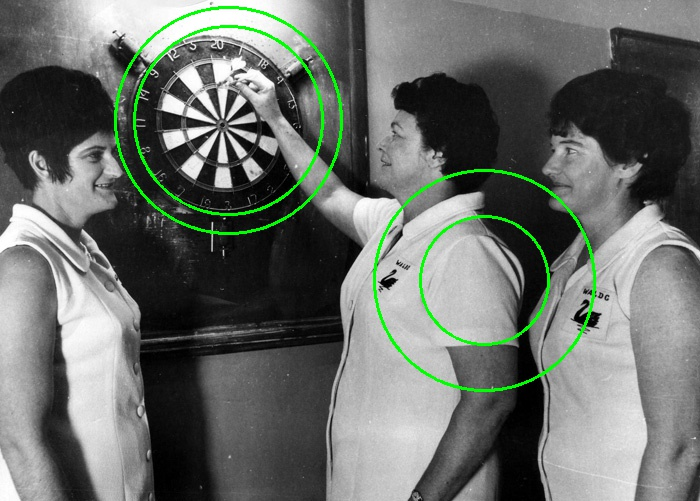
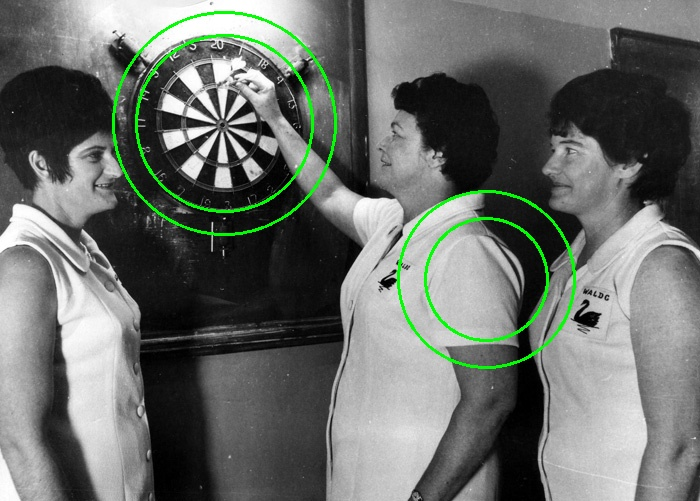
Promo Code: Big Til

Changed region(s): [[0.51, 0.3293, 0.87, 0.8084], [0.15, 0.0, 0.51, 0.479]]

diff --git a/dartboard.cpp b/dartboard.cpp
@@ -308,14 +308,20 @@ vector<Rect> refineDartboards(vector<Rect> dartboards, vector<myCircle> circleCe
 {
 	vector<Rect> acceptedDartboards;
 	vector<bool> circleCheck;
+	vector<bool> interCheck;
+	vector<bool> dartCheck;
 	for (int i = 0;i < circleCentres.size();i++)
 	{
 		circleCheck.push_back(false);
 	}
-	bool dartEval = false;
+	for(int i = 0;i < dartboards.size();i++){
+		dartCheck.push_back(false);
+	}
+	for(int i = 0;i < intersects.size();i++){
+		interCheck.push_back(false);
+	}
 	for (int i = 0; i < dartboards.size(); i++)
 	{
-		dartEval = false;
 		for(int j = 0; j < circleCentres.size(); j++)
 		{
 			Rect centralRegion = Rect((dartboards[i].x + dartboards[i].width/3), (dartboards[i].y + dartboards[i].height/3), (dartboards[i].width/3), (dartboards[i].height/3));
@@ -331,42 +337,28 @@ vector<Rect> refineDartboards(vector<Rect> dartboards, vector<myCircle> circleCe
 					int intY = intersects[k].y;
 					if (intX > x - 10 && intX < x + 10 && intY > y - 10 && intY < y + 10)
 					{
-						if(!circleCheck[j] && dartEval)
+						if(!circleCheck[j] && !interCheck[k])
 						{
+							printf("circleint\n");
 							if(radius1 > radius2)
 							{
-								int width = radius1;
-								Rect newRect(x-width,y-width,2*radius1,2*radius1);
+								int width = radius1*0.8;
+								printf("%d rad 1  %d\n",radius1,width);
+								Rect newRect(x-width,y-width,2*width,2*width);
 								acceptedDartboards.push_back(newRect);
 							}
 							else
 							{
-								int width = radius2;
-								Rect newRect(x-width,y-width,2*radius2,2*radius2);
+								int width = radius2*0.8;
+								printf("%d rad 2  %d\n",radius2,width);
+								Rect newRect(x-width,y-width,2*width,2*width);
 								acceptedDartboards.push_back(newRect);
 							}
 							circleCheck[j] = true;
-							dartEval = true;
+							interCheck[k] = true;
+							//dartCheck[i] = true;
 							}
-						}
-					if(intX > centralRegion.x && intX < (centralRegion.x+centralRegion.width) && intY > centralRegion.y && intY < (centralRegion.y + centralRegion.height))
-					{
-						if(dartboards[i].width < radius1*2.6 || dartboards[i].width < radius2*2.6)
-						{
-							if(dartboards[i].width > radius1*0.8 || dartboards[i].width > radius2*0.8)
-							{
-								if(!dartEval)
-								{
-									acceptedDartboards.push_back(dartboards[i]);
-									dartEval = true;
-								}
-							}
-						}
-					}
-					if(dartEval)
-					{
-						break;
-					}
+					}	
 				}
 			}
 			else
@@ -375,7 +367,7 @@ vector<Rect> refineDartboards(vector<Rect> dartboards, vector<myCircle> circleCe
 				{
 					if(dartboards[i].width > radius1*0.8 || dartboards[i].width > radius2*0.8)
 					{
-						if(!circleCheck[j] && !dartEval){
+						if(!circleCheck[j] && !dartCheck[i]){
 							printf("radius 1 = %i radius 2 = %i\n", radius1, radius2);
 							if((radius1 > radius2))
 							{
@@ -384,7 +376,7 @@ vector<Rect> refineDartboards(vector<Rect> dartboards, vector<myCircle> circleCe
 									Rect newRect(x-radius2, y-radius2, radius2*2, radius2*2);
 									acceptedDartboards.push_back(newRect);
 									printf("circlevi\n");
-									dartEval = true;
+									dartCheck[i] = true;
 									circleCheck[j] = true;
 								}
 								else
@@ -392,7 +384,7 @@ vector<Rect> refineDartboards(vector<Rect> dartboards, vector<myCircle> circleCe
 									Rect newRect(x-radius1, y-radius1, radius1*2, radius1*2);
 									acceptedDartboards.push_back(newRect);
 									printf("circlevi\n");
-									dartEval = true;
+									dartCheck[i] = true;
 									circleCheck[j] = true;
 								}
 							}
@@ -403,7 +395,7 @@ vector<Rect> refineDartboards(vector<Rect> dartboards, vector<myCircle> circleCe
 									Rect newRect(x-radius1, y-radius1, radius1*2, radius1*2);
 									acceptedDartboards.push_back(newRect);
 									printf("circlevi\n");
-									dartEval = true;
+									dartCheck[i] = true;
 									circleCheck[j] = true;
 								}
 								else
@@ -411,7 +403,7 @@ vector<Rect> refineDartboards(vector<Rect> dartboards, vector<myCircle> circleCe
 									Rect newRect(x-radius2, y-radius2, radius2*2, radius2*2);
 									acceptedDartboards.push_back(newRect);
 									printf("circlevi\n");
-									dartEval = true;
+									dartCheck[i] = true;
 									circleCheck[j] = true;
 								}
 							}
@@ -419,13 +411,46 @@ vector<Rect> refineDartboards(vector<Rect> dartboards, vector<myCircle> circleCe
 						}
 					}
 				}
-				if(dartEval)
-				{
-					break;
-				}
 			}
 		}
 
+	}
+	//printf("no seggy");
+	for (int i = 0; i < dartboards.size(); i++)
+	{
+		for(int k = 0; k < intersects.size();k++){
+			int intX = intersects[k].x;
+			int intY = intersects[k].y;
+			Rect centralRegion = Rect((dartboards[i].x + dartboards[i].width/3), (dartboards[i].y + dartboards[i].height/3), (dartboards[i].width/3), (dartboards[i].height/3));
+			if(intX > centralRegion.x && intX < (centralRegion.x+centralRegion.width) && intY > centralRegion.y && intY < (centralRegion.y + centralRegion.height))
+			{
+				if(dartboards[i].width < MAX_RAD*2.6)
+				{
+					if(dartboards[i].width > MIN_RAD*0.8)
+					{
+						if(acceptedDartboards.size() > 0){
+							for(int m = 0;m < acceptedDartboards.size();m++){
+								if(!dartCheck[i] && !interCheck[k] && !((dartboards[i] & acceptedDartboards[m]).area() > 0))
+								{
+									printf("intvi\n");
+									acceptedDartboards.push_back(dartboards[i]);
+									dartCheck[i] = true;
+									interCheck[k] = true;
+								}
+							}							
+						}else{
+							if(!dartCheck[i] && !interCheck[k])
+							{
+								printf("intvi\n");
+								acceptedDartboards.push_back(dartboards[i]);
+								dartCheck[i] = true;
+								interCheck[k] = true;
+							}
+						}
+					}
+				}
+			}
+		}
 	}
 	return acceptedDartboards;
 }
@@ -531,7 +556,7 @@ vector<Point> houghLines(Mat &sobelMag, Mat &linesGrad, Mat &lines, Mat &houghSp
 			{
 				imval = 255;
 			}
-			houghSpaceLines.at<double>(i,j) = imval;
+			houghSpaceLines.at<double>(i,j) = imval+50;
 		}
 	}
 
